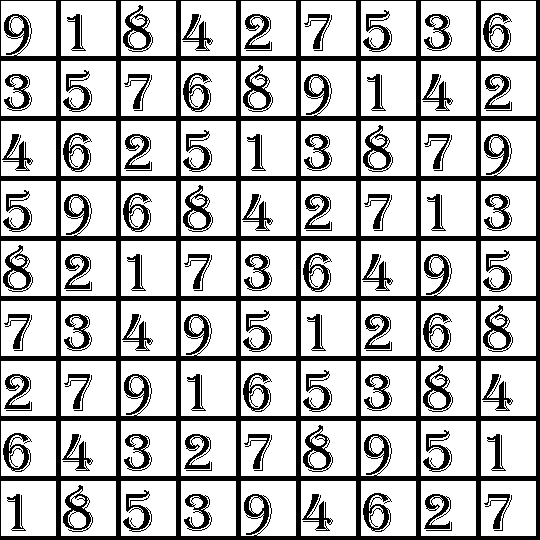
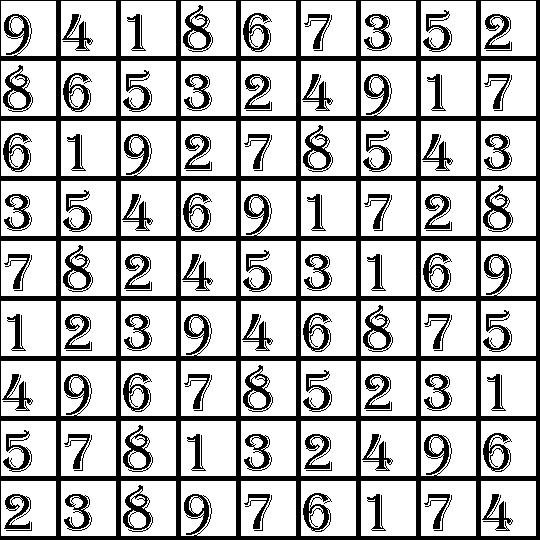
Added readme.md
Added explanation of different versions in readme.md

diff --git a/sudoku_v2.py b/sudoku_v2.py
@@ -1,4 +1,5 @@
 from filehandler import FileHandler
+import sys
 
 class Variable:
     def __init__(self, i, j):
@@ -14,6 +15,7 @@ class Variable:
 class SudokuSolver:
 
     ref = dict()
+    '''A dictionary of all the subgrids i.e. the smaller 3x3 grid within the larger grid'''
     ref[0] = [(0, 0), (2, 2)]
     ref[1] = [(0, 3), (2, 5)]
     ref[2] = [(0, 6), (2, 8)]
@@ -152,7 +154,7 @@ class SudokuSolver:
             
         return True
     
-    def select_unassigned_variable(self) -> tuple[int]:
+    def select_unassigned_variable(self):
         '''Select an unassigned Variable from the grid
         and return its position'''
         for i in range(9):
@@ -204,8 +206,11 @@ class SudokuSolver:
                     s += '_ '
             print(s)
 
+# Usage: python sudoku_v2.py grid.txt
+grid_file = sys.argv[1]
+
 fh = FileHandler()
-fh.read_file('grid.txt')
+fh.read_file(grid_file)
 ss = SudokuSolver(fh.grid)
 ss.solve()
 ss.print_grid()

diff --git a/sudoku_v1.py b/sudoku_v1.py
@@ -203,6 +203,3 @@ class SudokuSolver():
                     s += '_ '
             print(s)
         print()
-fh = FileHandler()
-fh.read_file('grid.txt')
-ss = SudokuSolver(fh.grid)

diff --git a/runner.py b/runner.py
@@ -1,5 +1,5 @@
 import sys
-from sudoku import SudokuSolver, Variable
+from sudoku_v1 import SudokuSolver, Variable
 from filehandler import FileHandler
 import pygame
 pygame.init()

diff --git a/README.md b/README.md
@@ -1,2 +1,16 @@
-# sudoku
- My very own Sudoku Solver
+# Sudoku Solver
+My very own Sudoku Solver. This solver started as a project for Harvard CS50's Intro to AI with Python online MOOC. Two versions exist: `v1` requires verification from the user, while `v2` automatically computes a valid solution.
+
+
+This program phrases Sudoku solving as a **Constraint Satisfaction Problem** (`CSP`) and applies relevant concepts and techniques such as **arc consistency** and **backtracking** based on the **AC-3 algorithm** to find a valid filling of the blanks in the grid. 
+
+### v1
+Example usage: `python runner.py grid2.txt`
+1. Initially, the partially-filled grid is read from `grid2.txt`. In this case, it contains 2 blanks. The algorithm creates a domain of possible values (digits 1-9) for each of those blank spaces
+2. Over several iterations, **arc consistency** is ensured. For each blank, it is ensured that its domain does not contain digits which are already present in its own row, column or subgrid. If, for any blank, only one possible value remains in the domain, this is inserted into the grid, performing a **safe move**. If the algorithm does not find such a safe move, it asks the user for assistance by suggesting a random move, and having the user check if the suggested move is valid or not. However, this method works only if the user has access to a filled grid.
+3. Once the grid is filled, the program draws a filled grid using `pygame` and stores it in the file `puzzle.png`.
+
+### v2
+Example usage: `python sudoku_v2.py grid.txt`
+
+This also utilises the AC-3 algorithm described above. A couple of heuristics are applied, which are stated in `improvements.txt`. This program always finds a valid solution if it exists, and prints it in the command window. Since this utilises recursion and tests many possible fillings, it results in longer runtimes than `v1`.
